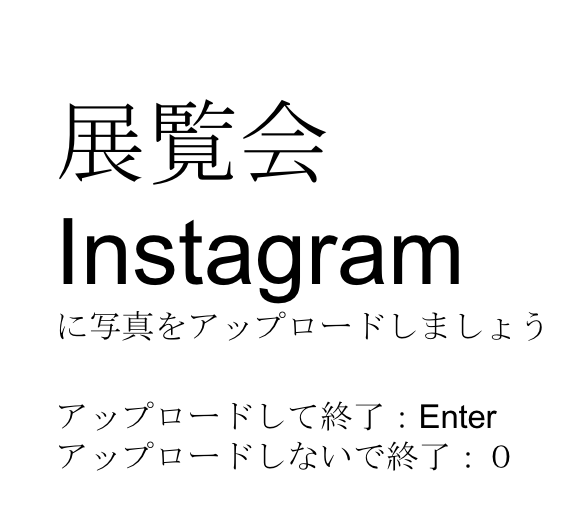
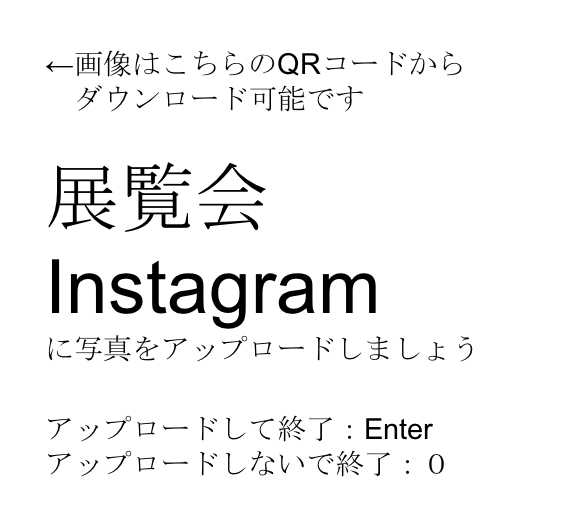
v1

diff --git a/src/ofApp.cpp b/src/ofApp.cpp
@@ -92,8 +92,8 @@ void testApp::setup() {
     gui.setup();
     gui.add(p_IgnoreLeft.setup("p_IgnoreLeft", 0.1, 0, 1.0));
     gui.add(p_IgnoreTop.setup("p_IgnoreTop", 0.1, 0, 1.0));
-    gui.add(p_IgnoreRight.setup("p_IgnoreRight", 0.0, 0, 1.0));
-    gui.add(p_IgnoreBottom.setup("p_IgnoreBottom", 0.2, 0, 1.0));
+    gui.add(p_IgnoreRight.setup("p_IgnoreRight", 0.9, 0, 1.0));
+    gui.add(p_IgnoreBottom.setup("p_IgnoreBottom", 0.9, 0, 1.0));
     
     gui.add(p_frameLeft.setup("p_frameLeft", 0.525, 0, 1.0));
     gui.add(p_frameTop.setup("p_frameTop", 0.315, 0, 1.0));
@@ -102,6 +102,7 @@ void testApp::setup() {
     gui.add(p_DepthMin.setup("p_DepthMin", 33, 0, 255));
     gui.add(p_DepthMax.setup("p_DepthMax", 85, 0, 255));
     gui.add(p_ReactThr.setup("p_ReactThr", 10, 0, 100));
+    gui.add(p_ParticleMax.setup("p_ParticleMax",30,10,40));
     gui.setPosition(ofGetWidth()/2, 0);
     
     // load the lines we saved...
@@ -168,9 +169,12 @@ void testApp::setup() {
     b_PyCamDraw = false;
     objCountDown.setup();
     i_WhiteFadeLevel = 0;
-    imageTitle.load("title.png");
+    imageTitle.load("description.png");
     imageInstaRecommend.load("insta.png");
     b_Demo = false;
+    i_SecCount = 0;
+    i_SecCountBuf = 0;
+
 }
 
 //--------------------------------------------------------------
@@ -204,7 +208,7 @@ void testApp::update() {
             v_particlesPoly[texturePolyIdx].push_back(pPoly);
             i_ParticlesSum += (int)(radiusPolyBuf * radiusPolyBuf);
             
-            if(i_ParticlesSum > PARTICLE_MAX){
+            if(i_ParticlesSum > p_ParticleMax * 100000){
             //if(i_ParticlesSum > 3000){
                 b_AutoBorn = false;
             }
@@ -266,7 +270,7 @@ void testApp::update() {
         b_CapturedOnce = false;
         ofxOscMessage m;
         m.setAddress( "/image/saved" );
-        m.addStringArg(filenameCapture);
+        m.addStringArg("capture/"+filenameCapture);
         sender.sendMessage( m );
     }
     
@@ -317,6 +321,13 @@ void testApp::update() {
     }
     }
     
+    if(i_WhiteFadeLevel >= 255 and !b_Demo and (sequence.getIdNow() == AID_EDIT)){
+        if((ofGetElapsedTimeMillis() / 1000) > i_SecCountBuf){
+            i_SecCountBuf = (int)(ofGetElapsedTimeMillis() / 1000);
+            i_SecCount ++;
+        }
+    }
+    
 
 }
 
@@ -325,7 +336,10 @@ void testApp::update() {
 
 //--------------------------------------------------------------
 void testApp::draw() {
-    
+    ofBackground(255,255,255);
+    if(b_Demo){
+        ofBackground(0, 0, 0);
+    }
     ofSetHexColor(0xffffff);
     
     //inputCam.draw(0, 0, 320, 180);
@@ -412,8 +426,8 @@ void testApp::draw() {
         int s = ofGetSeconds();
         int m = ofGetMinutes();
         int h = ofGetHours();
-        string filename = "capture/screenshot_" + ofToString(mn, 0) + "_" + ofToString(d, 0) + "_" + ofToString(h, 0) + "_" + ofToString(m, 0) + "_" + ofToString(s, 0) +".png";
-        imgGrab.save(filename);
+        string filename = "screenshot_" + ofToString(mn, 0) + "_" + ofToString(d, 0) + "_" + ofToString(h, 0) + "_" + ofToString(m, 0) + "_" + ofToString(s, 0) +".png";
+        imgGrab.save("capture/"+filename);
         filenameCapture = filename;
         b_Captured = true;
         b_CapturedOnce = true;
@@ -444,6 +458,14 @@ void testApp::draw() {
         if(!b_Demo)ofDrawRectangle(0, 0, ofGetWidth(), ofGetHeight());
         ofPopStyle();ofPopMatrix();
         
+        ofPushMatrix();ofPushStyle();
+        if((i_SecCount > 1 ) and !b_Demo and (sequence.getIdNow() == AID_EDIT)){
+            ofSetColor(0, 0, 0);
+            ofFill();
+            ofDrawCircle(ofGetWidth()/2 + 60 * (i_SecCount - 3), ofGetHeight()/2, 30);
+        }
+        ofPopStyle();ofPopMatrix();
+
         if(i_WhiteFadeLevel > 255 and b_Captured){
             ofPushMatrix();ofPushStyle();
             ofEnableAlphaBlending();
@@ -562,7 +584,8 @@ void testApp::keyPressed(int key) {
                     sequence.interrupt(20);
                     break;
                 case AID_RESULT_SHOW_WAIT:
-                    imgGrab.save("open"+filenameCapture);
+                    imgGrab.save("opencapture/"+filenameCapture);
+                    imgGrab.save("/Users/isuca/Dropbox/hashimoto/"+filenameCapture);
                     sequence.interrupt(30);
                     break;
             }
@@ -646,7 +669,7 @@ void testApp::makeAvoidImage(){
             if( p_frameTop <= posY and posY <= p_frameBottom and  p_frameLeft <= posX and posX <= p_frameRight ){
                 charBuf[(int)(i*w+j)] = 255;
             }
-            if( p_IgnoreTop >= posY and posY >= p_IgnoreBottom and  p_IgnoreLeft >= posX and posX >= p_IgnoreRight ){
+            if( p_IgnoreTop >= posY or posY >= p_IgnoreBottom or  p_IgnoreLeft >= posX or posX >= p_IgnoreRight ){
                 charBuf[(int)(i*w+j)] = 0;
             }
         }
@@ -797,7 +820,7 @@ void testApp::setupSequence(){
     sequence.pushData(ofxFragment(25,AID_EDIT,6));
     sequence.pushData(ofxFragment(26,AID_RESULT_CAPTURE,1,1));
     sequence.pushData(ofxFragment(27,AID_RESULT_SHOW,3));//kokode QR show
-    sequence.pushData(ofxFragment(28,30,AID_RESULT_SHOW_WAIT,10));
+    sequence.pushData(ofxFragment(28,30,AID_RESULT_SHOW_WAIT,60));
     sequence.pushData(ofxFragment(30,10,AID_GOODBYE,1));
     
     sequence.setup();
@@ -837,6 +860,7 @@ void testApp::updateSequence(){
         int param;
         param = sequence.getParamNow();
         cout<<"[Sequence] "<<sequence.getIdNow()<<" :param "<<param<<endl;
+        string filename;
         switch(sequence.getIdNow()){
             case AID_INIT:
                 break;
@@ -862,6 +886,9 @@ void testApp::updateSequence(){
             case AID_SHOOT:
                 objCountDown.set(0);
                 PyCamColorBuffer = PyCamColor;
+                filename = "screenshot_" + ofToString(ofGetMonth(), 0) + "_" + ofToString(ofGetDay(), 0) + "_" + ofToString(ofGetHours(), 0) + "_" + ofToString(ofGetMinutes(), 0) + "_" + ofToString(ofGetSeconds(), 0) +".png";
+                PyCamColor.save("color/"+filename);
+                PyCamDepth.save("depth/"+filename);
                 clearAvoidImage();
                 makeAvoidImage();
                 b_AutoBorn = true;
@@ -879,7 +906,9 @@ void testApp::updateSequence(){
             case AID_GOODBYE:
                 objCountDown.set(0);
                 i_WhiteFadeLevel = 0;
-                
+                i_SecCount = 0;
+                i_SecCountBuf = 0;
+
                 for(int i = 0;i < v_particles.size();i++){
                     int particlesNum = v_particles[i].size();
                     for(int j = 0;j< particlesNum ; j++){

diff --git a/src/ofApp.h b/src/ofApp.h
@@ -168,6 +168,7 @@ public:
     ofxIntSlider p_DepthMin;
     ofxIntSlider p_DepthMax;
     ofxIntSlider p_ReactThr;
+    ofxIntSlider p_ParticleMax;
 
     ofImage inputCam;
     ofImage cropCam;
@@ -222,6 +223,8 @@ public:
     ofImage imageQr;
     ofImage imageInstaRecommend;
     bool b_Demo;
+    int i_SecCountBuf;
+    int i_SecCount;
 };
 
 
